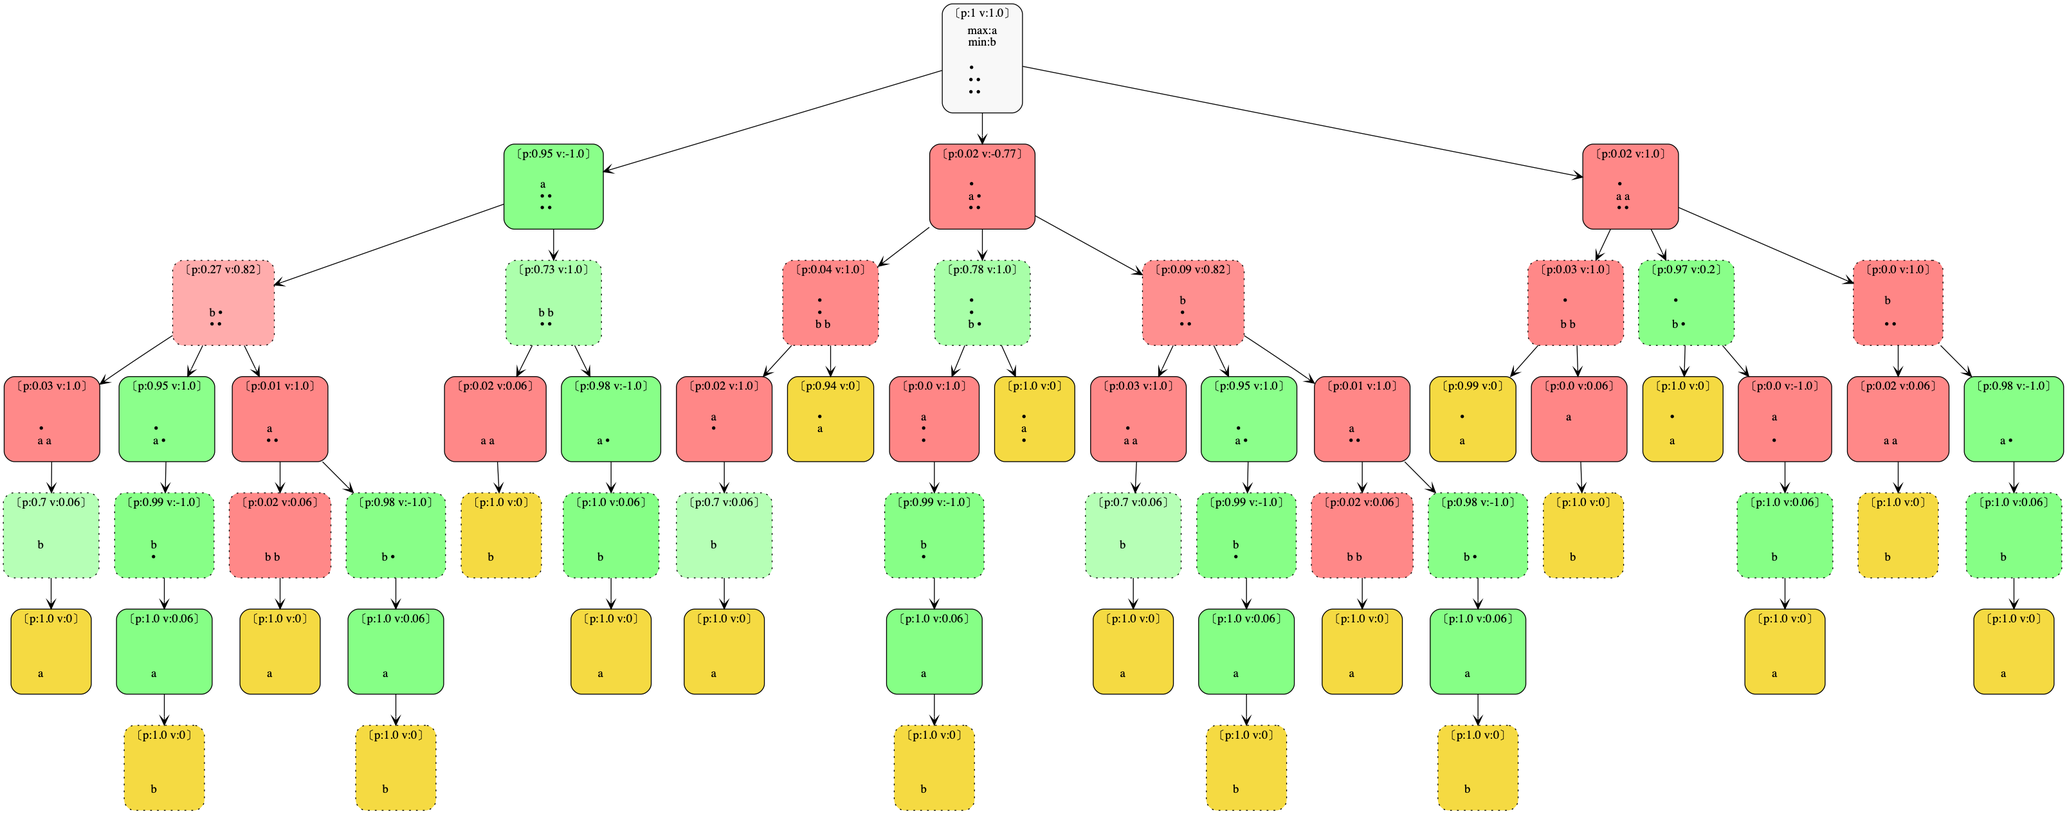
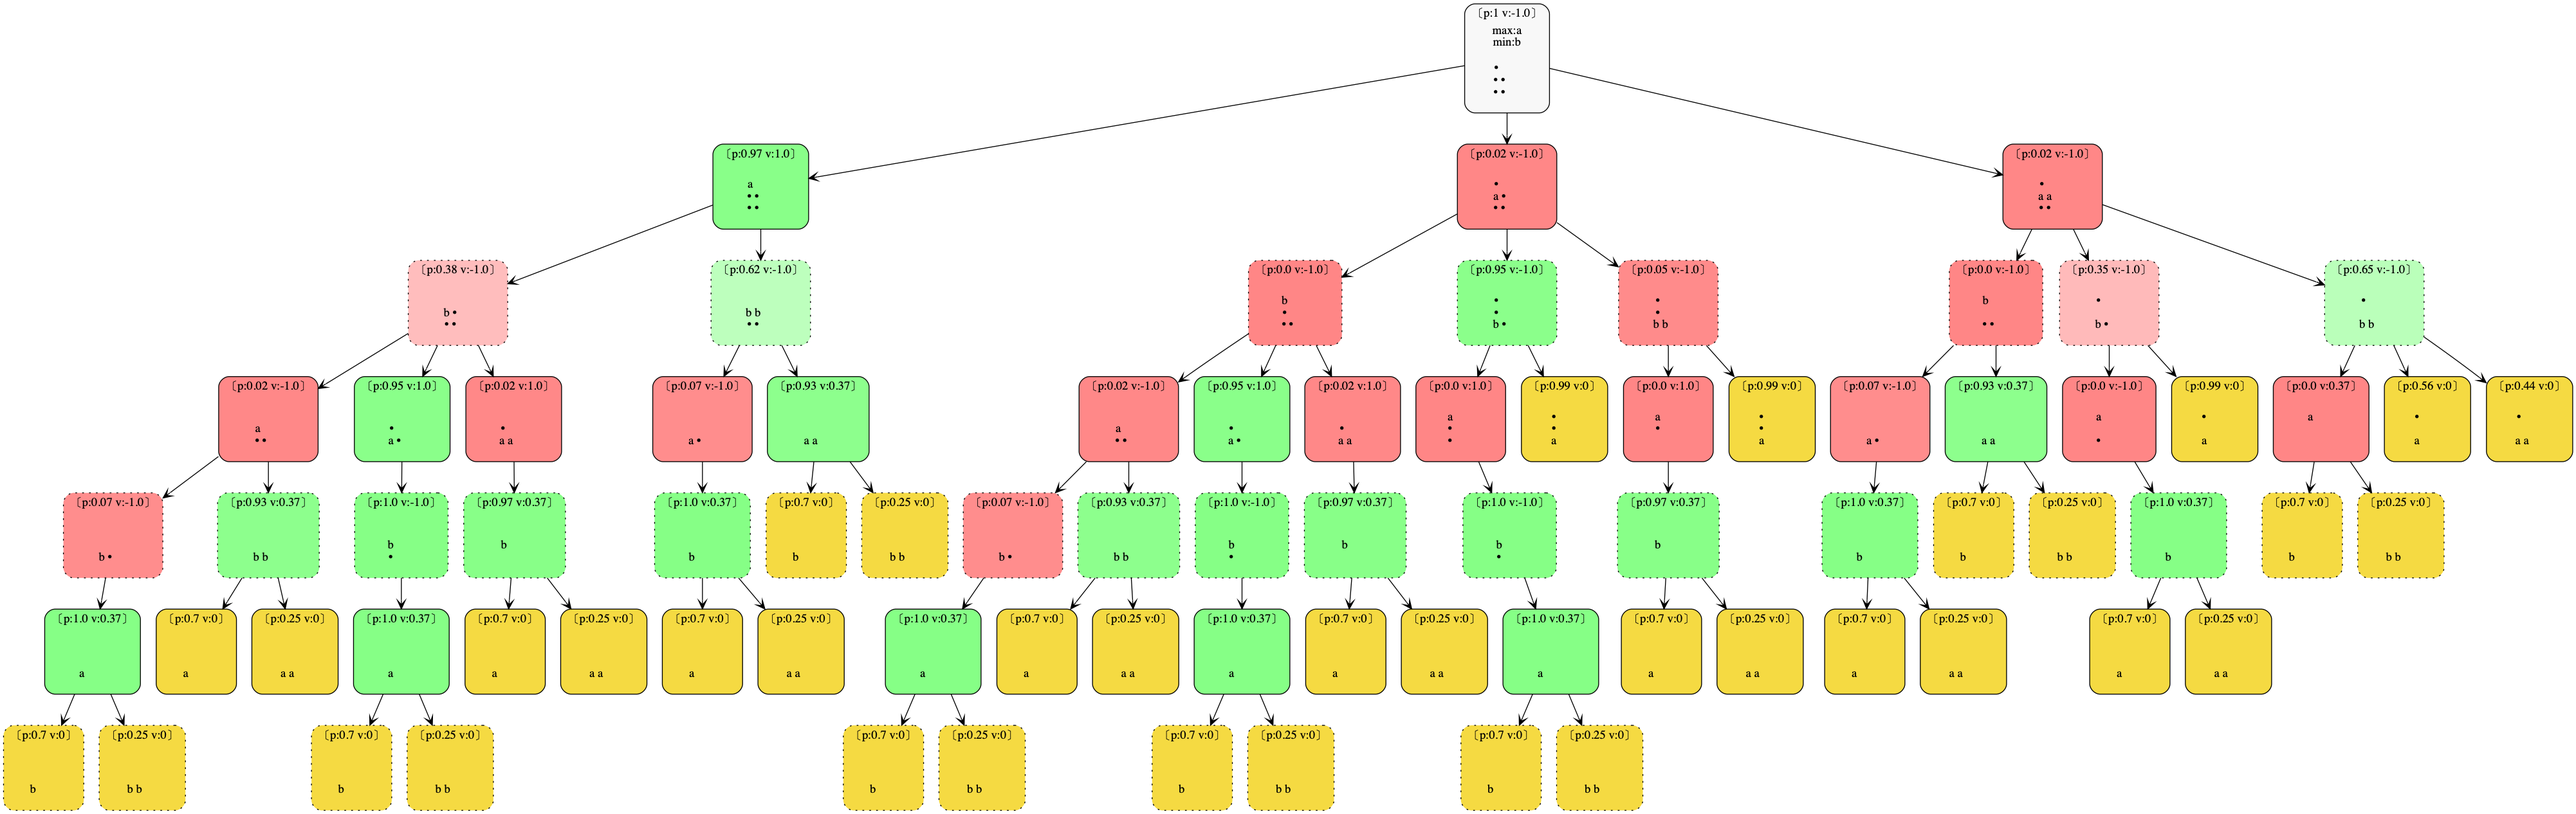
Fixed the f** bug of ordering actions

diff --git a/src/structures/game_encoder.py b/src/structures/game_encoder.py
@@ -15,9 +15,9 @@ class GameEncoder:
     """
     def __init__(self, all_actions, all_obs, clip_rewards = False):
         #Set all options for actions and observations
-        all_actions = all_actions
-        self.all_actions = all_actions
-        self.actionstr_to_idx = {str(a):i for i,a in enumerate(all_actions)}
+        all_actions = [str(a) for a in all_actions]
+        self.all_actions = sorted(all_actions)
+        self.actionstr_to_idx = {str(a):i for i,a in enumerate(self.all_actions)}
         self.all_obs = {
             "a": sorted(all_obs, key=lambda x: not has_player_ref(x,"a")),
             "b": sorted(all_obs, key=lambda x: not has_player_ref(x,"b"))

diff --git a/src/structures/treeMCTS.py b/src/structures/treeMCTS.py
@@ -140,7 +140,7 @@ class TreeMCTS(Tree):
             self.add_to_training_dic(dic,n)
         
 
-    def run_mcts(self, n_iter, initial_node = None, expl=2 ):
+    def run_mcts(self, n_iter, initial_node = None, expl=3 ):
         node = self.root if initial_node is None else initial_node
         current_state = node.step.state
         for a in current_state.legal_actions:
